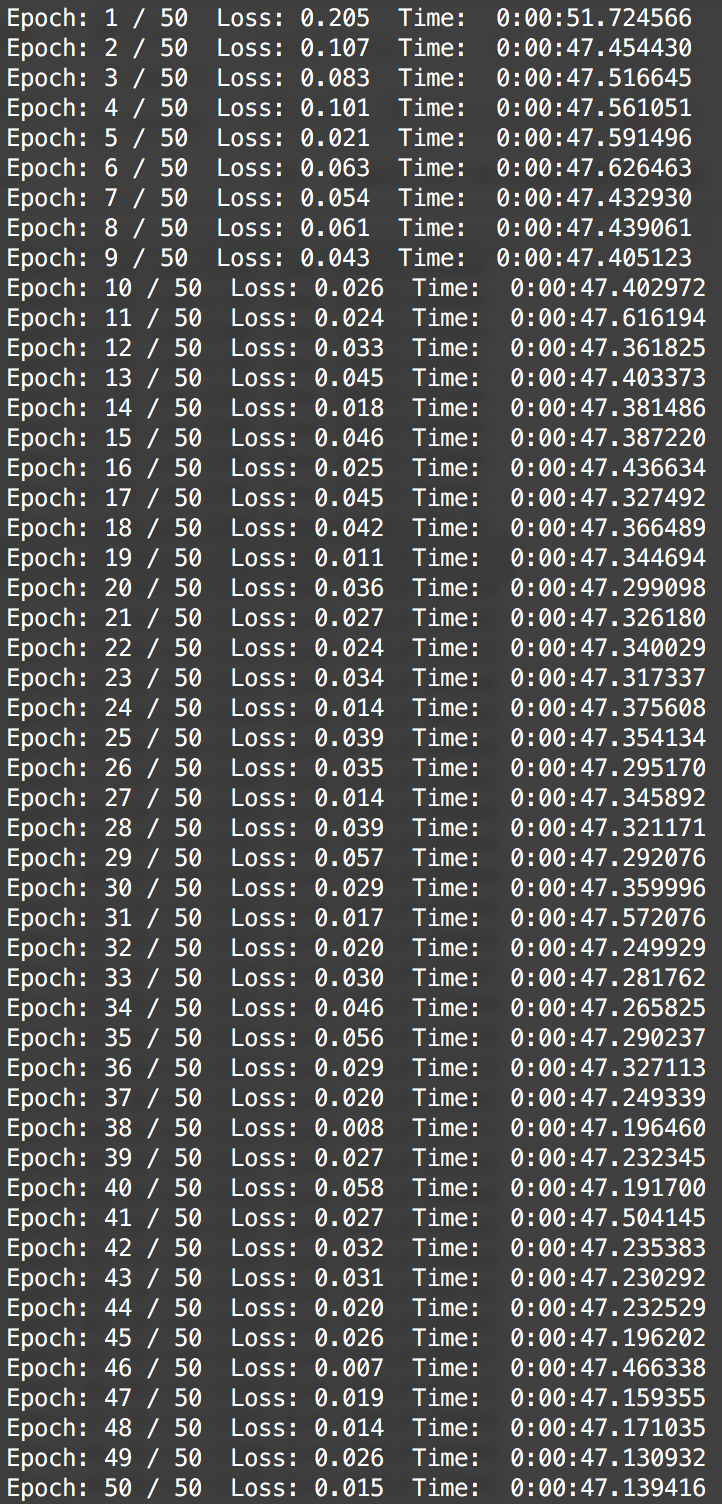
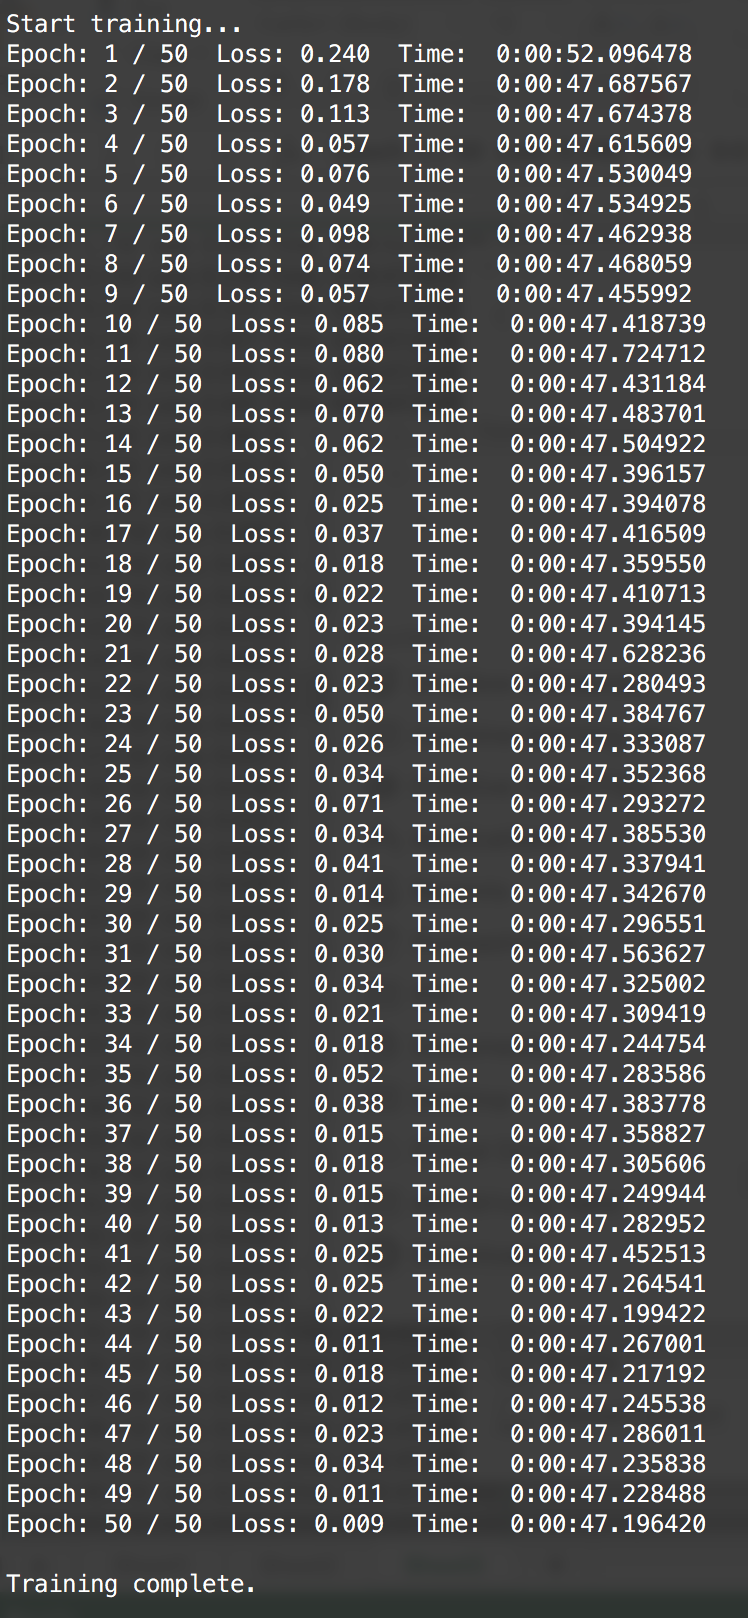
assets for project writeup

diff --git a/p12-semantic-segmentation/README.md b/p12-semantic-segmentation/README.md
@@ -1,6 +1,72 @@
-# Semantic Segmentation
-### Introduction
-In this project, you'll label the pixels of a road in images using a Fully Convolutional Network (FCN).
+#### Udacity Self-Driving Car Engineer Nanodegree
+
+# Term 3 / Project 12: Semantic Segmentation
+
+<a href=""><img src="results/ss-example-cows-cars.png" width="75%" /></a>
+
+*Image credit: [Brad Sliz blog](http://bradsliz.com/2017-11-06-object-segmentation/)*
+
+##### &nbsp;
+## Goal & Approach
+The goal of this project is to identify the road within a series of driving images. To do this, we use an approach called semantic segmentation, which enables us to associate each pixel of an image with a class label. In the most simple case for this project, the two classes are 'road' and 'not road.' However, it's possible to classify a variety of different objects such as cars, pedestrians, trees, bicyclists, etc.
+
+For our semantic segmentation model we're required to build and train a Fully Convolutional Network (FCN), using [this research paper](https://people.eecs.berkeley.edu/~jonlong/long_shelhamer_fcn.pdf) from Berkeley as a guide.
+
+Below is a diagram of the model architecture. Notice that there are two skip layers which feed the output from layer 3 and layer 4 in the encoder into the second and third layer of the decoder. This helps preserve fidelity that is otherwise lost through subsequent convolutions during encoding.
+
+<img src="results/fcn-architecture.png" width="75%" /></a>
+
+*Image credit: [PCA-aided Fully Convolutional Networks for Semantic Segmentation of Multi-channel fMRI](https://www.groundai.com/project/pca-aided-fully-convolutional-networks-for-semantic-segmentation-of-multi-channel-fmri/) by Lei Tai, Haoyang Ye, Qiong Ye, and Ming Liu*
+
+##### &nbsp;
+#### Data
+The model was trained using the [KITTI road detection data set](http://www.cvlibs.net/datasets/kitti/eval_road.php).
+
+
+##### &nbsp;
+## Results
+Although far from perfect, I was able to get my model to recognize the road with a good degree of accuracy after 20 epochs.
+
+| Training        | Prediction Output           |
+| ------------- |:-------------:|
+| 1 epoch | <img src="results/um_000015_01_epochs.png" width="60%" /></a>      |
+| 10 epochs | <img src="results/um_000015_10_epochs.png" width="60%" /></a>      |
+| 20 epochs | <img src="results/um_000015_20_epochs.png" width="60%" /></a>      |
+| 50 epochs | <img src="results/um_000015_50_epochs.png" width="60%" /></a>      |
+
+##### &nbsp;
+[Here](https://youtu.be/qWz-CXYuH_U) is a video showing all of the test results.
+
+<a href="https://youtu.be/qWz-CXYuH_U"><img src="results/video-thumbnail.png" width="40%" /></a>
+
+##### &nbsp;
+Here are the hyperparameters used during training
+
+<img src="results/params-kitti.png" width="60%" /></a>
+
+##### &nbsp;
+Here is the resulting cross-entropy loss.
+
+<img src="results/loss-graph-kitti.png" width="60%" /></a>
+
+<img src="results/loss-results-kitti.png" width="60%" /></a>
+
+
+
+##### &nbsp;
+### Future Improvements
+Ultimately, this is a simple approach that works well for this particular data set. Trying to extend this model for use on a self-driving car would require some improvements.
+* Train on more robust data set such as [Cityscapes](https://www.cityscapes-dataset.com/).
+* Add augmentation to generate more and more diverse training examples.
+* Freeze model to improve performance.
+* Add ability to take video as direct input.
+
+##### &nbsp;
+
+---
+
+# Project Starter Code
+In case you want to run this project yourself, below is the project starter code. [This repository](https://github.com/udacity/CarND-Semantic-Segmentation) contains all the code needed.
 
 ### Setup
 ##### GPU
@@ -21,7 +87,7 @@ The comments indicated with "OPTIONAL" tag are not required to complete.
 ##### Run
 Run the following command to run the project:
 ```
-python main.py
+python main.py train -ep=50 -bs=8
 ```
 **Note** If running this in Jupyter Notebook system messages, such as those regarding test status, may appear in the terminal rather than the notebook.
 
@@ -33,16 +99,16 @@ python main.py
  - `main.py`
  - `project_tests.py`
  - Newest inference images from `runs` folder  (**all images from the most recent run**)
- 
+
  ### Tips
 - The link for the frozen `VGG16` model is hardcoded into `helper.py`.  The model can be found [here](https://s3-us-west-1.amazonaws.com/udacity-selfdrivingcar/vgg.zip)
-- The model is not vanilla `VGG16`, but a fully convolutional version, which already contains the 1x1 convolutions to replace the fully connected layers. Please see this [forum post](https://discussions.udacity.com/t/here-is-some-advice-and-clarifications-about-the-semantic-segmentation-project/403100/8?u=subodh.malgonde) for more information.  A summary of additional points, follow. 
-- The original FCN-8s was trained in stages. The authors later uploaded a version that was trained all at once to their GitHub repo.  The version in the GitHub repo has one important difference: The outputs of pooling layers 3 and 4 are scaled before they are fed into the 1x1 convolutions.  As a result, some students have found that the model learns much better with the scaling layers included. The model may not converge substantially faster, but may reach a higher IoU and accuracy. 
+- The model is not vanilla `VGG16`, but a fully convolutional version, which already contains the 1x1 convolutions to replace the fully connected layers. Please see this [forum post](https://discussions.udacity.com/t/here-is-some-advice-and-clarifications-about-the-semantic-segmentation-project/403100/8?u=subodh.malgonde) for more information.  A summary of additional points, follow.
+- The original FCN-8s was trained in stages. The authors later uploaded a version that was trained all at once to their GitHub repo.  The version in the GitHub repo has one important difference: The outputs of pooling layers 3 and 4 are scaled before they are fed into the 1x1 convolutions.  As a result, some students have found that the model learns much better with the scaling layers included. The model may not converge substantially faster, but may reach a higher IoU and accuracy.
 - When adding l2-regularization, setting a regularizer in the arguments of the `tf.layers` is not enough. Regularization loss terms must be manually added to your loss function. otherwise regularization is not implemented.
- 
+
 ### Using GitHub and Creating Effective READMEs
 If you are unfamiliar with GitHub , Udacity has a brief [GitHub tutorial](http://blog.udacity.com/2015/06/a-beginners-git-github-tutorial.html) to get you started. Udacity also provides a more detailed free [course on git and GitHub](https://www.udacity.com/course/how-to-use-git-and-github--ud775).
 
-To learn about REAMDE files and Markdown, Udacity provides a free [course on READMEs](https://www.udacity.com/courses/ud777), as well. 
+To learn about REAMDE files and Markdown, Udacity provides a free [course on READMEs](https://www.udacity.com/courses/ud777), as well.
 
 GitHub also provides a [tutorial](https://guides.github.com/features/mastering-markdown/) about creating Markdown files.
